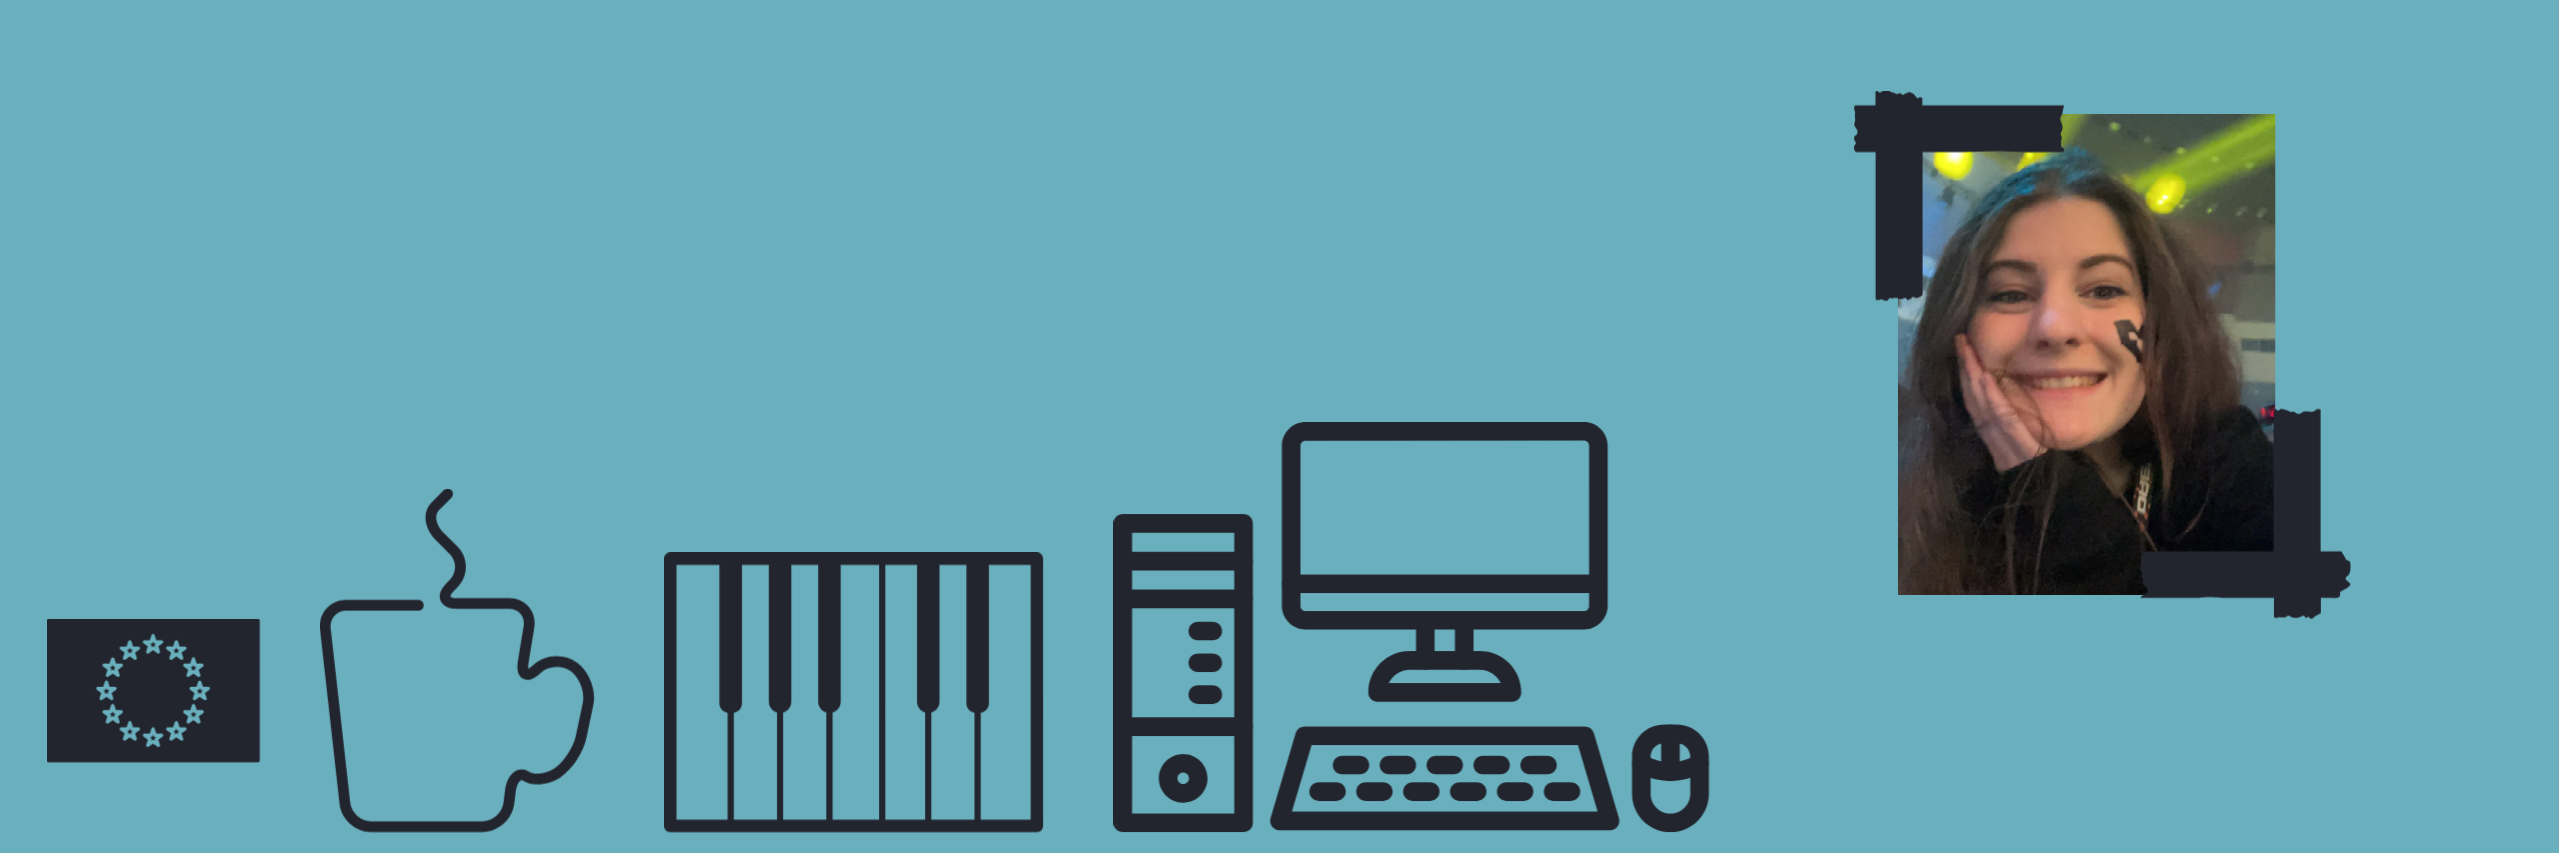
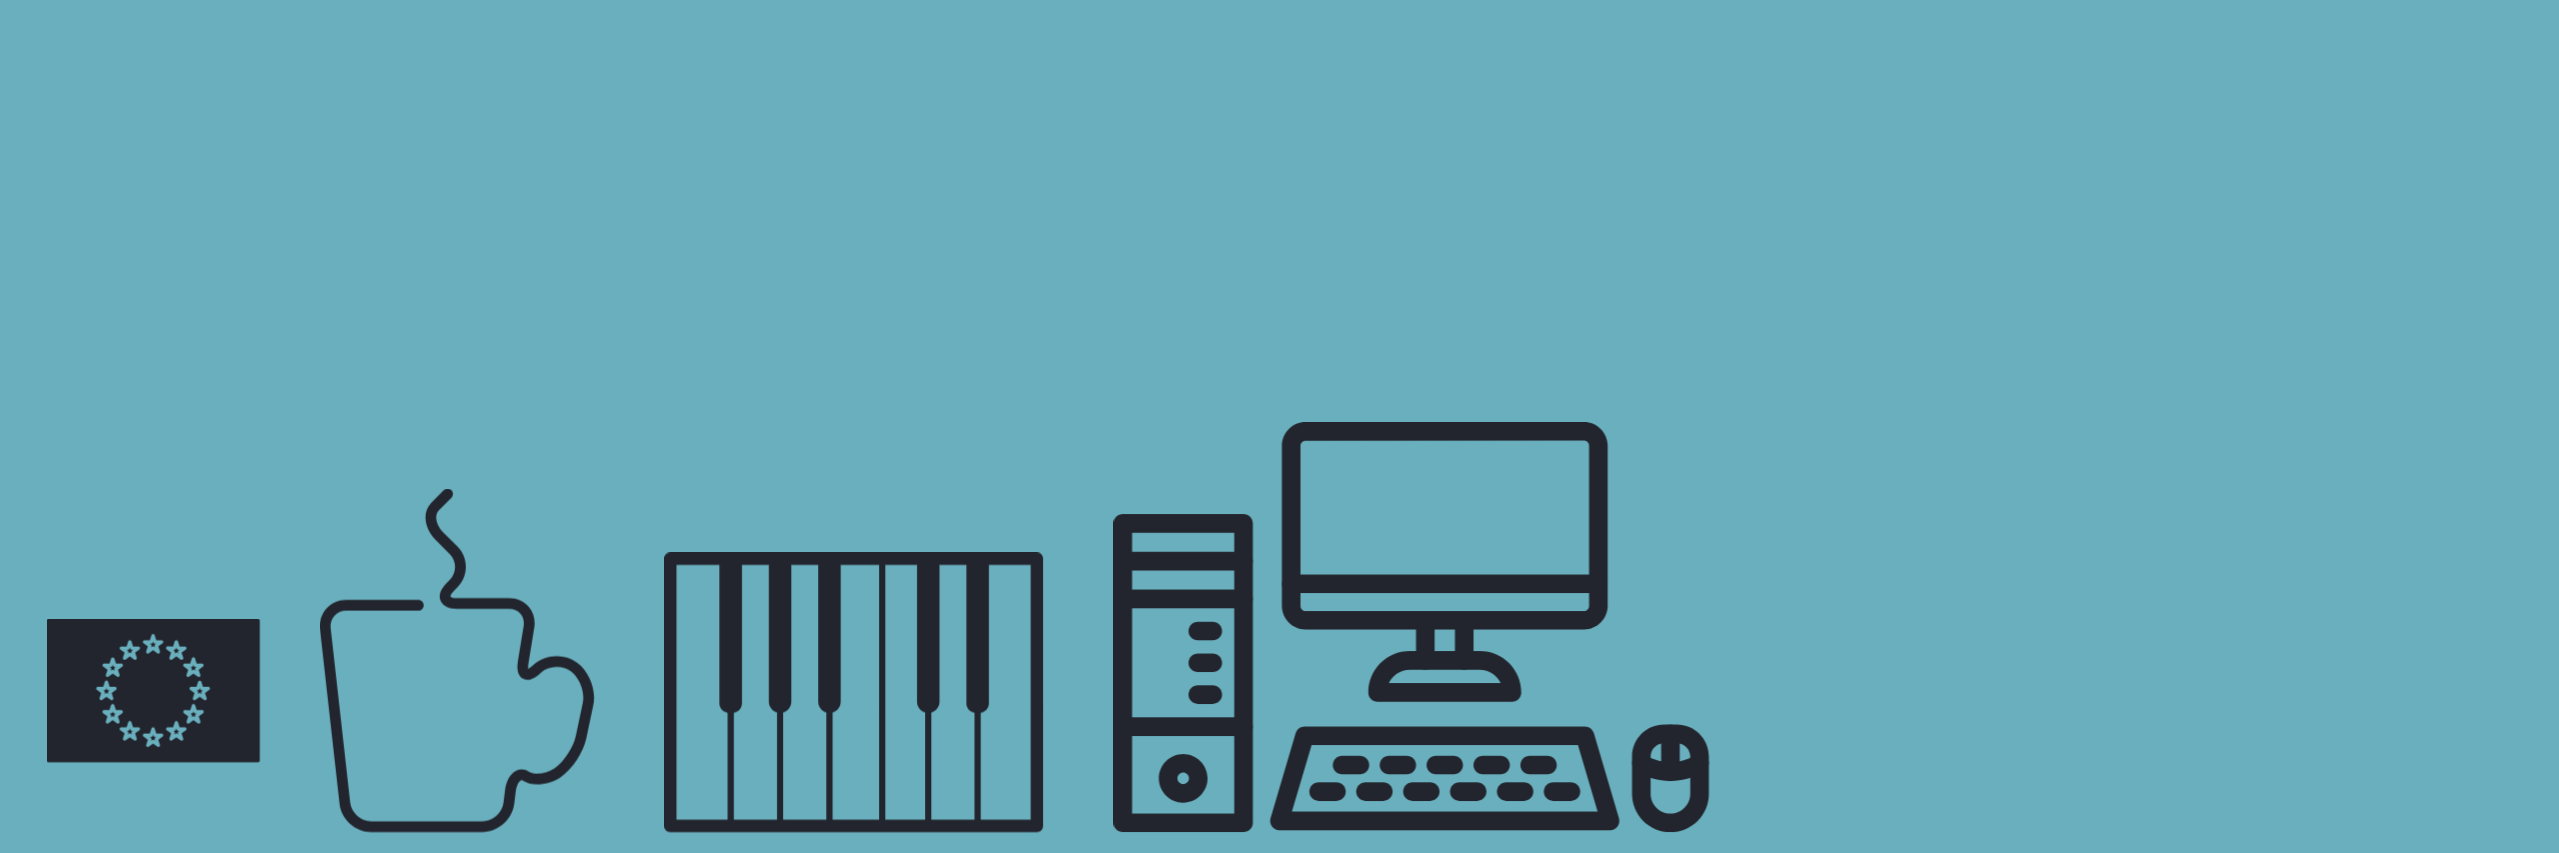
added header image and messing with profile picture it almost works B)

Changed region(s): [[0.71, 0.0914, 0.9261, 0.7315]]

diff --git a/index.html b/index.html
@@ -26,7 +26,9 @@
 
     <!-- banner image goes here -->
     <!-- TODO ASK IN OFFICE HOURS WHY PICTURE NO WORK -->
-    <div class="banner"><a href="../My-Portfolio/assets/images/My project-1.png"></a></div>
+    <img src="../My-Portfolio/assets/images/My project-1.png" class="banner">
+    <div class="image-container"><img src="assets/images/my face.png" width="200" height="250" class="image-style" id="image1" title="Image tooltip"></div>
+
 </body> 
 
     <section id="about-me" class="container"> 

diff --git a/assets/css/style.css b/assets/css/style.css
@@ -32,7 +32,22 @@ h2 {
     background-image: url("../images/My\ project-1.png");
     background-repeat: no-repeat;
     background-size: cover;
-    height: 400px;
+    max-height: 400px;
+    object-fit: cover;
+    width: 100vw;
+    object-position: bottom;
+}
+
+.image-container {
+    position: relative;
+    width: 300px;
+    height: 200px;
+}
+
+.image-container img {
+    position: absolute;
+    top: -300px;
+    left: 1435px;
 }
 
 .container {
